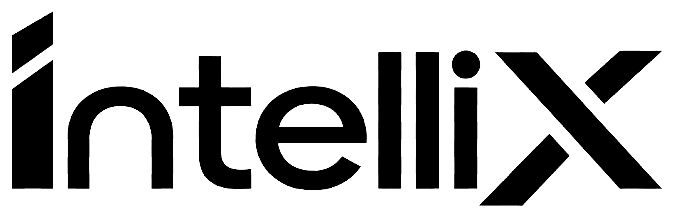
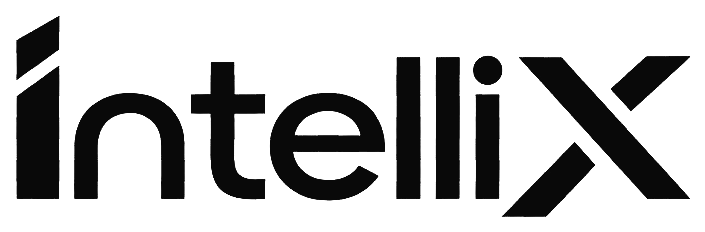
feat(branding): integrate pristine official IntelliX wordmark for white mode and dark mode across headers, auth, and navigation

diff --git a/src/components/Footer.jsx b/src/components/Footer.jsx
@@ -22,24 +22,19 @@ const Footer = () => {
     <footer className={`py-12 md:py-20 relative overflow-hidden ${isDark ? 'bg-[#000000] border-t border-white/5' : 'bg-[#fafafa] border-t border-black/5'}`}>
       <div className="max-w-6xl mx-auto px-6 py-12 md:py-24">
         <div className="grid grid-cols-1 md:grid-cols-5 gap-12 md:gap-8 relative z-10">
-          
+
           {/* Brand Section */}
           <div className="md:col-span-2 space-y-8">
-            <Link to="/" className="inline-flex items-center gap-2.5 py-1" aria-label="IntelliX">
-              <img
-                src={isDark ? "/intellix-icon-white.svg" : "/intellix-icon-black.svg"}
-                alt="iX"
-                className="w-7 h-7 object-contain"
-              />
+            <Link to="/" className="inline-block py-1" aria-label="IntelliX">
               <img
                 src={isDark ? "/intellix-wordmark-white.png" : "/intellix-wordmark-black.png"}
                 alt="IntelliX"
-                className="h-6 w-auto object-contain"
+                className="h-7 w-auto object-contain"
               />
             </Link>
-            
+
             <p className={`text-sm leading-relaxed max-w-xs ${textColor}`}>
-              Architecting the future of educational infrastructure. 
+              Architecting the future of educational infrastructure.
               Engineering clarity for modern institutes through intelligent systems.
             </p>
 
@@ -88,19 +83,19 @@ const Footer = () => {
         {/* Massive Brand Text Effect */}
         <div className="w-full mt-24 mb-12 flex justify-center items-center overflow-hidden select-none relative h-[12rem] md:h-[20rem]">
           <div className="flex pointer-events-auto h-full items-center relative">
-            
+
             {/* Shimmer Overlay Layer (Optional based on implementation, here we'll use a globally moving gradient mask) */}
-            <motion.div 
-               animate={{ x: ['-100%', '100%'] }}
-               transition={{ duration: 3, repeat: Infinity, ease: "linear" }}
-               className="absolute inset-0 pointer-events-none opacity-20 bg-gradient-to-r from-transparent via-white to-transparent skew-x-[-20deg]"
-               style={{ mixBlendMode: 'overlay', zIndex: 1 }}
+            <motion.div
+              animate={{ x: ['-100%', '100%'] }}
+              transition={{ duration: 3, repeat: Infinity, ease: "linear" }}
+              className="absolute inset-0 pointer-events-none opacity-20 bg-gradient-to-r from-transparent via-white to-transparent skew-x-[-20deg]"
+              style={{ mixBlendMode: 'overlay', zIndex: 1 }}
             />
 
             {"intellix".split("").map((char, idx) => {
               const isHovered = hoveredLetter === idx;
               const isNeighbor = hoveredLetter !== null && Math.abs(hoveredLetter - idx) === 1;
-              
+
               return (
                 <motion.span
                   key={idx}
@@ -109,8 +104,8 @@ const Footer = () => {
                   animate={{
                     opacity: isHovered ? 1 : isNeighbor ? 0.45 : 0.25,
                     scale: isHovered ? 1.08 : 1,
-                    textShadow: isHovered 
-                      ? '0px 0px 12px rgba(255,255,255,0.45)' 
+                    textShadow: isHovered
+                      ? '0px 0px 12px rgba(255,255,255,0.45)'
                       : '0px 0px 0px rgba(255,255,255,0)',
                   }}
                   transition={{
@@ -138,7 +133,7 @@ const Footer = () => {
           <p className={`text-xs tracking-wide ${textColor}`}>
             © 2026 IntelliX. All rights reserved.
           </p>
-          
+
           <div className="flex gap-8">
             {['Privacy', 'Terms', 'Security'].map((item) => (
               <a

diff --git a/src/pages/LandingPage.jsx b/src/pages/LandingPage.jsx
@@ -551,17 +551,12 @@ const Navbar = ({ isDark, setIsDark, toggleTheme }) => {
       }`}
     >
       <div className="mx-auto w-full max-w-6xl px-4 sm:px-6 flex h-16 items-center justify-between gap-4">
-        {/* Brand: Official IntelliX Logo & Wordmark */}
-        <Link to="/" className="flex items-center gap-2 sm:gap-2.5 group py-1" aria-label="IntelliX">
-          <img
-            src={isDark ? "/intellix-icon-white.svg" : "/intellix-icon-black.svg"}
-            alt="iX"
-            className="w-6 h-6 sm:w-7 sm:h-7 object-contain shrink-0"
-          />
+        {/* Brand: Official IntelliX Wordmark */}
+        <Link to="/" className="flex items-center group py-1" aria-label="IntelliX">
           <img
             src={isDark ? "/intellix-wordmark-white.png" : "/intellix-wordmark-black.png"}
             alt="IntelliX"
-            className="h-5 sm:h-5.5 w-auto object-contain transition-opacity duration-200"
+            className="h-6 sm:h-7 w-auto object-contain transition-opacity duration-200"
           />
         </Link>
 
@@ -665,16 +660,11 @@ const Navbar = ({ isDark, setIsDark, toggleTheme }) => {
       {/* Mobile Drawer Menu */}
       {mobileMenuOpen && (
         <div className="md:hidden border-b border-[var(--wl-line)] bg-[var(--wl-bg)] px-4 py-3 space-y-2">
-          <div className="pb-2 border-b border-[var(--wl-line)] flex items-center gap-2">
-            <img
-              src={isDark ? "/intellix-icon-white.svg" : "/intellix-icon-black.svg"}
-              alt="iX"
-              className="w-5 h-5 object-contain shrink-0"
-            />
+          <div className="pb-2 border-b border-[var(--wl-line)] flex items-center justify-between">
             <img
               src={isDark ? "/intellix-wordmark-white.png" : "/intellix-wordmark-black.png"}
               alt="IntelliX"
-              className="h-4.5 w-auto object-contain"
+              className="h-5.5 w-auto object-contain"
             />
           </div>
           <a
@@ -2798,16 +2788,11 @@ const InteractiveFooter = ({ isDark }) => {
         <div className="grid grid-cols-2 md:grid-cols-5 gap-8 py-14 border-t border-[var(--wl-line)]">
           {/* Brand Col: Official IntelliX Logo & Wordmark */}
           <div className="col-span-2 md:col-span-1 space-y-3">
-            <Link to="/" className="flex items-center gap-2.5 py-1" aria-label="IntelliX">
-              <img
-                src={isDark ? "/intellix-icon-white.svg" : "/intellix-icon-black.svg"}
-                alt="iX"
-                className="w-7 h-7 object-contain shrink-0"
-              />
+            <Link to="/" className="inline-block py-1" aria-label="IntelliX">
               <img
                 src={isDark ? "/intellix-wordmark-white.png" : "/intellix-wordmark-black.png"}
                 alt="IntelliX"
-                className="h-5.5 w-auto object-contain"
+                className="h-6 sm:h-7 w-auto object-contain"
               />
             </Link>
             <div className="text-sm font-normal text-[var(--wl-fg)]">

diff --git a/src/components/dashboard/DashboardLayout.jsx b/src/components/dashboard/DashboardLayout.jsx
@@ -45,18 +45,19 @@ const DashboardLayout = () => {
     <div className="dashboard-sidebar h-full flex flex-col">
       {/* Logo row */}
       <div className="flex items-center gap-2.5 px-4 py-4 border-b border-dashboard-border">
-        <div className="w-8 h-8 rounded-lg flex items-center justify-center flex-shrink-0 overflow-hidden">
-          <img
-            src={isDark ? "/intellix-icon-white.svg" : "/intellix-icon-black.svg"}
-            alt="iX"
-            className="w-7 h-7 object-contain"
-          />
-        </div>
-        {!collapsed && (
+        {collapsed ? (
+          <div className="w-8 h-8 rounded-lg flex items-center justify-center flex-shrink-0 overflow-hidden mx-auto">
+            <img
+              src={isDark ? "/intellix-icon-white.svg" : "/intellix-icon-black.svg"}
+              alt="iX"
+              className="w-7 h-7 object-contain"
+            />
+          </div>
+        ) : (
           <img
             src={isDark ? "/intellix-wordmark-white.png" : "/intellix-wordmark-black.png"}
             alt="IntelliX"
-            className="h-5 w-auto object-contain"
+            className="h-6 w-auto object-contain"
           />
         )}
       </div>

diff --git a/src/components/Navbar.jsx b/src/components/Navbar.jsx
@@ -83,22 +83,17 @@ const Navbar = () => {
           : 'bg-transparent py-5 border-transparent'
       }`}
     >
-      {/* Brand: Official iX Icon + Wordmark */}
+      {/* Brand: Official IntelliX Wordmark */}
       <motion.div
         initial={{ opacity: 0.85 }}
         whileHover={{ opacity: 1 }}
         transition={{ duration: 0.16 }}
       >
-        <Link to="/" className="inline-flex items-center gap-2 py-1" aria-label="IntelliX">
-          <img
-            src={isDark ? "/intellix-icon-white.svg" : "/intellix-icon-black.svg"}
-            alt="iX"
-            className="w-6 h-6 object-contain"
-          />
+        <Link to="/" className="inline-block py-1" aria-label="IntelliX">
           <img
             src={isDark ? "/intellix-wordmark-white.png" : "/intellix-wordmark-black.png"}
             alt="IntelliX"
-            className="h-5 w-auto object-contain"
+            className="h-6 w-auto object-contain"
           />
         </Link>
       </motion.div>

diff --git a/src/pages/AuthPage.jsx b/src/pages/AuthPage.jsx
@@ -240,10 +240,9 @@ const AuthPage = () => {
         className="flex-1 flex items-center justify-center px-8 py-12 bg-white relative"
         style={{ clipPath: 'polygon(5% 0%, 100% 0%, 100% 100%, 0% 100%)' }}
       >
-        {/* Mobile logo: Official iX icon + wordmark for white mode */}
-        <div className="absolute top-6 left-10 lg:hidden flex items-center gap-2">
-          <img src="/intellix-icon-black.svg" alt="iX" className="w-6 h-6 object-contain" />
-          <img src="/intellix-wordmark-black.png" alt="IntelliX" className="h-5 w-auto object-contain" />
+        {/* Mobile logo: Official IntelliX wordmark for white mode */}
+        <div className="absolute top-6 left-10 lg:hidden flex items-center">
+          <img src="/intellix-wordmark-black.png" alt="IntelliX" className="h-6 w-auto object-contain" />
         </div>
 
         <AnimatePresence mode="wait">

diff --git a/src/App.jsx b/src/App.jsx
@@ -59,10 +59,9 @@ const Preloader = ({ onComplete }) => {
           initial={{ y: '100%' }}
           animate={{ y: 0 }}
           transition={{ duration: 0.8, ease: [0.76, 0, 0.24, 1], delay: 0.2 }}
-          className="flex items-center justify-center gap-3.5 sm:gap-4 p-4"
+          className="flex items-center justify-center p-4"
         >
-          <img src="/intellix-icon-black.svg" alt="iX" className="h-10 sm:h-14 w-auto object-contain" />
-          <img src="/intellix-wordmark-black.png" alt="IntelliX" className="h-9 sm:h-13 w-auto object-contain" />
+          <img src="/intellix-wordmark-black.png" alt="IntelliX" className="h-12 sm:h-16 w-auto object-contain" />
         </motion.div>
       </div>
     </motion.div>

diff --git a/src/pages/RegisterPage.jsx b/src/pages/RegisterPage.jsx
@@ -112,16 +112,11 @@ const RegisterPage = () => {
           }}
         />
 
-        <Link to="/" className="flex items-center gap-3 group w-fit">
-          <img
-            src={isDark ? '/intellix-icon-white.svg' : '/intellix-icon-black.svg'}
-            alt="IntelliX"
-            className="w-8 h-8 object-contain"
-          />
+        <Link to="/" className="inline-block group w-fit py-1" aria-label="IntelliX">
           <img
             src={isDark ? '/intellix-wordmark-white.png' : '/intellix-wordmark-black.png'}
             alt="IntelliX"
-            className="h-5 w-auto object-contain"
+            className="h-7 w-auto object-contain"
           />
         </Link>
 
